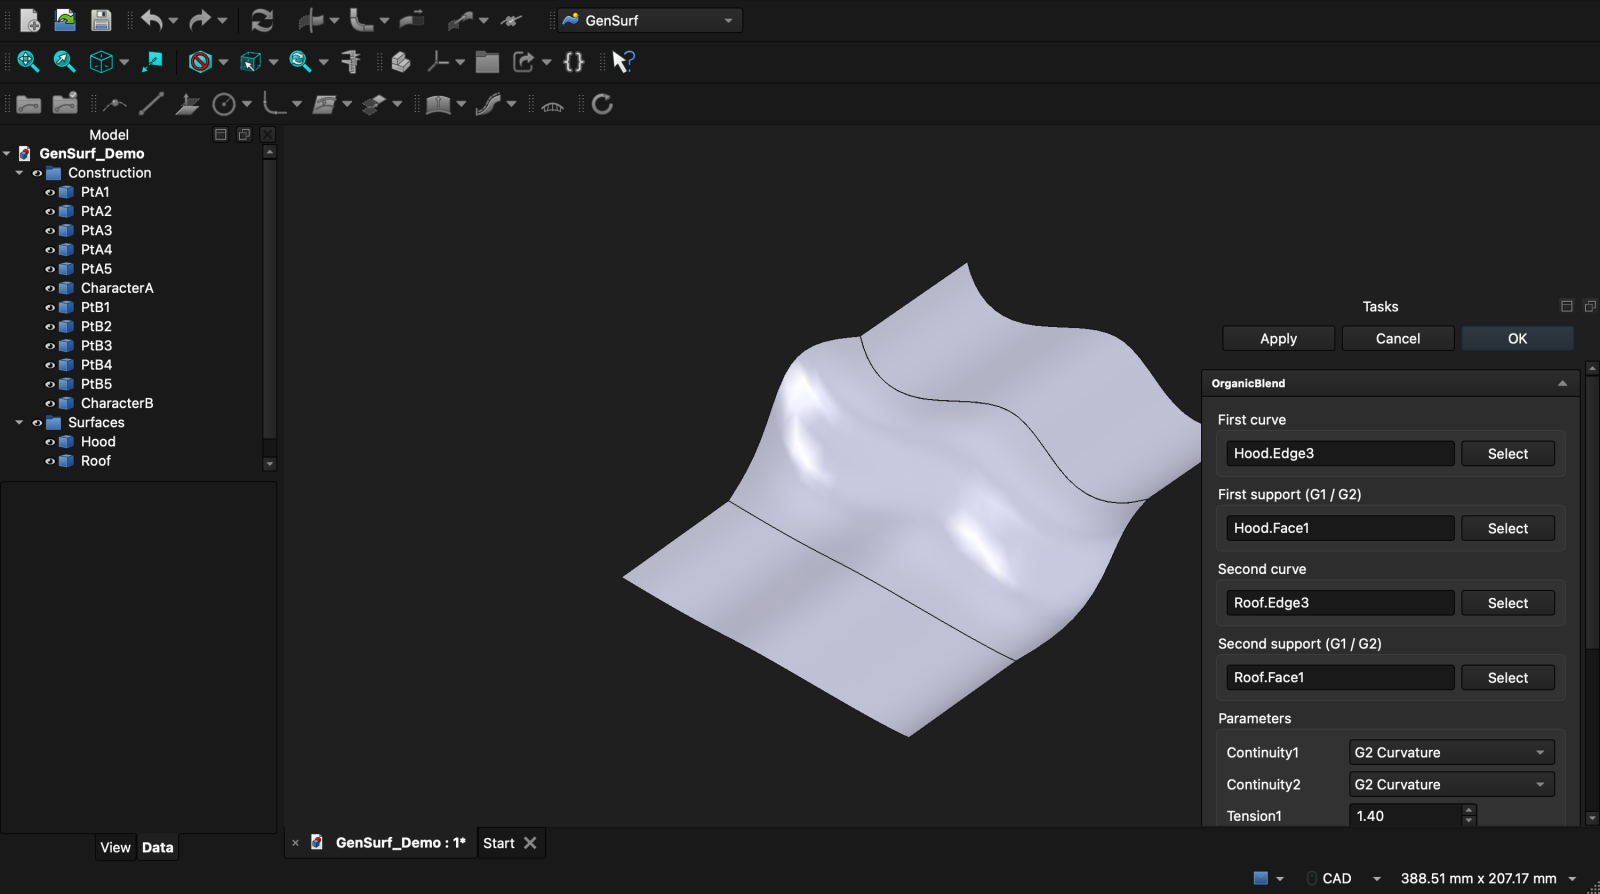
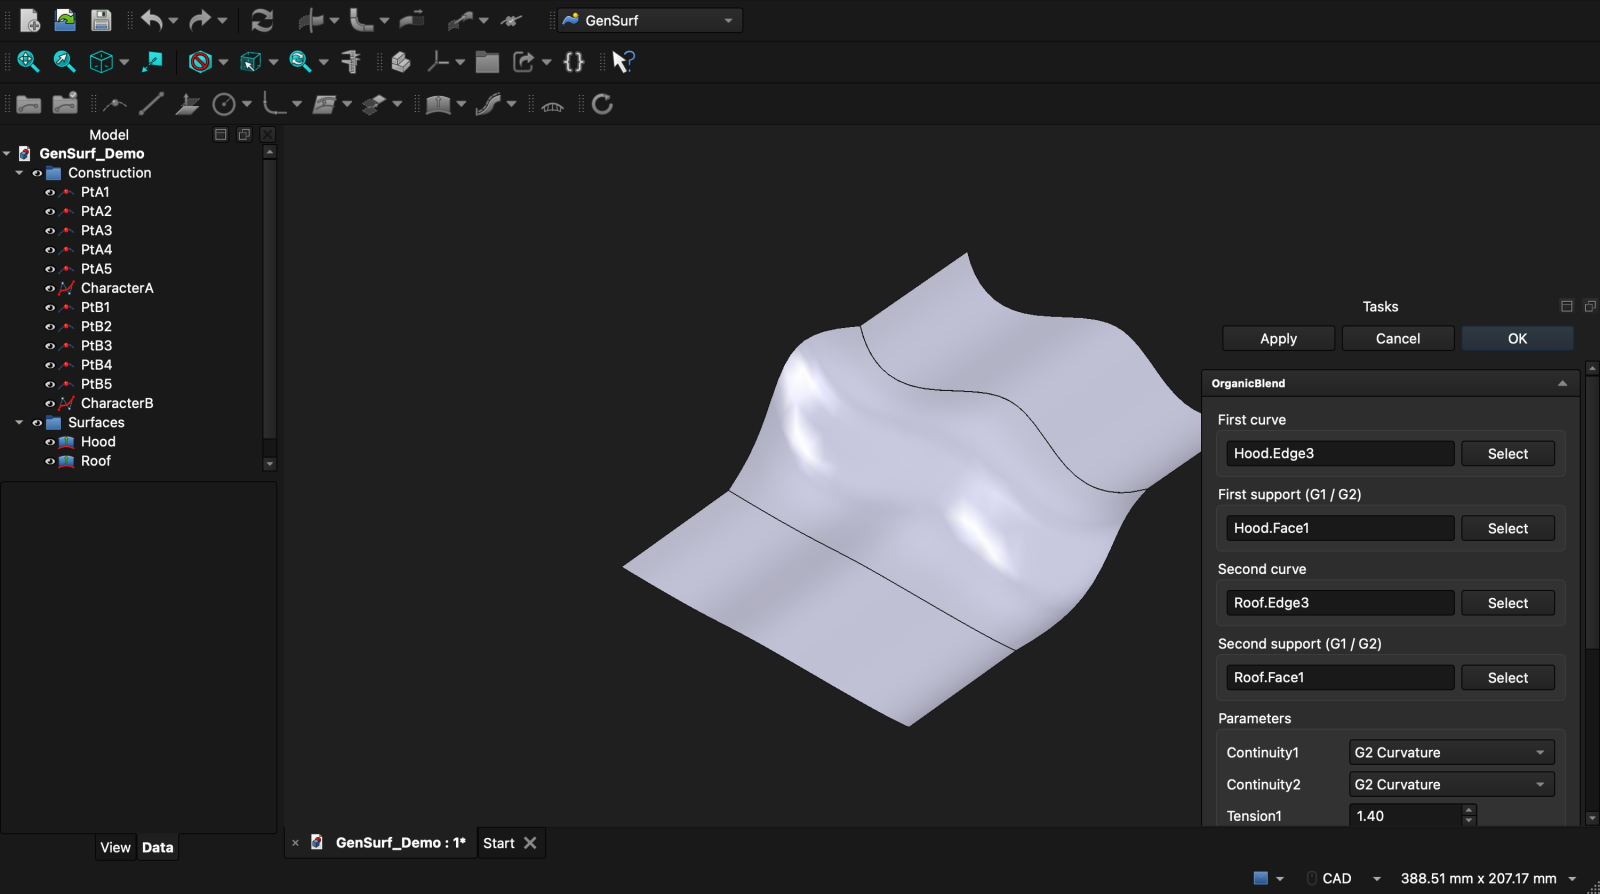
fix: GUI issues found by a new GUI smoke test
- tools/gui_smoke.py runs inside FreeCAD: every toolbar command creates
  its object, opens its task panel, applies and cancels (the object is
  removed); every operator's panel opens in edit mode on the 0.28 legacy
  document; toolbars, Set Active and tree icons are checked. 58/58 pass.
- Files saved without GUI data restored their GenSurf features without
  view providers (generic icons, double-click did not open the panel):
  the repair now runs whenever a document becomes active, since FreeCAD
  1.1 never calls slotFinishRestoreDocument on Python observers, and it
  also recognises the empty proxy (0). GSViewProvider keeps its view
  object from __init__, as attach() is not called in that case.
- Line requires Point1, so a new Line waits quietly for its input.
- README screenshots retaken: the tree now shows GenSurf's icons.

diff --git a/tools/gui_smoke.py b/tools/gui_smoke.py
@@ -1,0 +1,209 @@
+"""GUI smoke test (run as a macro inside the FreeCAD GUI).
+
+    GENSURF_SMOKE_LOG=/tmp/gensurf-smoke.txt \\
+        /path/to/FreeCAD --user-cfg /tmp/gensurf-smoke.cfg \\
+        tools/gui_smoke.py
+
+Exercises what the headless tests cannot reach: every toolbar command
+(create, open its task panel, Apply, Cancel), the task panel of every
+operator in edit mode on the 0.28 legacy document, Set Active, and the
+toolbar layout. Writes one line per check ("PASS ..." / "FAIL ...") to
+$GENSURF_SMOKE_LOG, then quits without saving anything. Python errors
+raised inside FreeCAD callbacks are only printed to the console, so also
+check the console output for "Traceback".
+"""
+
+import os
+import shutil
+import tempfile
+import traceback
+
+import FreeCAD as App
+import FreeCADGui as Gui
+from PySide import QtCore, QtWidgets
+
+REPO = os.path.dirname(os.path.dirname(os.path.abspath(__file__)))
+LOG = os.environ.get("GENSURF_SMOKE_LOG",
+                     os.path.join(tempfile.gettempdir(), "gensurf-smoke.txt"))
+RESULTS = []
+
+
+class _ControlSpy:
+    """Forwards to FreeCADGui.Control and remembers the last panel shown
+    (FreeCAD only hands back its own wrapper, not the Python panel)."""
+
+    def __init__(self, real):
+        self._real = real
+        self.last = None
+
+    def showDialog(self, panel):
+        self.last = panel
+        return self._real.showDialog(panel)
+
+    def __getattr__(self, name):
+        return getattr(self._real, name)
+
+
+class _GuiSpy:
+    def __init__(self, real):
+        self._real = real
+        self.Control = _ControlSpy(real.Control)
+
+    def __getattr__(self, name):
+        return getattr(self._real, name)
+
+
+SPY = _GuiSpy(Gui)
+
+
+def _close_leftover_dialog():
+    if not Gui.Control.activeDialog():
+        return
+    panel = SPY.Control.last
+    try:
+        panel.reject()
+    except Exception:  # noqa: BLE001
+        Gui.Control.closeDialog()
+        if App.ActiveDocument:
+            App.ActiveDocument.abortTransaction()
+
+
+def check(name, fn):
+    SPY.Control.last = None
+    try:
+        detail = fn()
+        RESULTS.append(f"PASS {name}" + (f" — {detail}" if detail else ""))
+    except Exception as err:  # noqa: BLE001 — report everything
+        tb = traceback.format_exc().strip().splitlines()[-3:]
+        RESULTS.append(f"FAIL {name}: {err!r} | " + " / ".join(tb))
+        _close_leftover_dialog()
+    QtWidgets.QApplication.processEvents()
+
+
+def _active_panel():
+    panel = SPY.Control.last
+    if panel is None or not Gui.Control.activeDialog():
+        raise RuntimeError("no task panel was shown")
+    return panel
+
+
+def _apply_and_cancel(panel):
+    from gensurf.ui.qt_compat import enum_value, standard_buttons
+    if not standard_buttons() & enum_value(
+            QtWidgets.QDialogButtonBox.Apply):
+        raise RuntimeError("Apply button missing")
+    panel.getStandardButtons()
+    panel.clicked(enum_value(QtWidgets.QDialogButtonBox.Apply))
+    panel.reject()
+    QtWidgets.QApplication.processEvents()
+    if Gui.Control.activeDialog():
+        raise RuntimeError("dialog still open after Cancel")
+
+
+def toolbars():
+    from gensurf.ui import commands
+    mw = Gui.getMainWindow()
+    titles = {tb.windowTitle() for tb in mw.findChildren(QtWidgets.QToolBar)
+              if tb.isVisible()}
+    wanted = [title for title, _items in commands.TOOLBARS]
+    missing = [t for t in wanted if t not in titles]
+    if missing:
+        raise RuntimeError(f"toolbars missing: {missing}")
+    return ", ".join(wanted)
+
+
+def create_with_command(name):
+    from gensurf.ui import commands
+    doc = App.ActiveDocument
+    before = len(doc.Objects)
+    commands._COMMANDS[name].Activated()
+    QtWidgets.QApplication.processEvents()
+    created = len(doc.Objects) - before
+    if created < 1:
+        raise RuntimeError("no object created")
+    _apply_and_cancel(_active_panel())
+    if len(doc.Objects) != before:
+        raise RuntimeError(
+            f"Cancel left {len(doc.Objects) - before} object(s) behind")
+
+
+def edit_existing(obj):
+    from gensurf.ui.view_provider import open_feature_dialog
+    open_feature_dialog(obj, created=False)
+    QtWidgets.QApplication.processEvents()
+    panel = _active_panel()
+    _apply_and_cancel(panel)
+    return type(panel).__name__
+
+
+def construction_sets():
+    from gensurf.containers import get_active_set, make_construction_set
+    from gensurf.ui import commands
+    doc = App.ActiveDocument
+    commands._COMMANDS["GenSurf_ConstructionSet"].Activated()
+    first = get_active_set(doc)
+    second = make_construction_set(doc, "SmokeSet")
+    Gui.Selection.clearSelection()
+    Gui.Selection.addSelection(first)
+    cmd = commands._COMMANDS["GenSurf_SetActive"]
+    if not cmd.IsActive():
+        raise RuntimeError("Set Active is disabled with a set selected")
+    cmd.Activated()
+    if get_active_set(doc) is not first or second.ActiveSet:
+        raise RuntimeError("Set Active did not switch the active set")
+    Gui.Selection.clearSelection()
+    return "insert + Set Active"
+
+
+def tree_icons(doc):
+    missing = [o.Name for o in doc.Objects
+               if getattr(o, "GSType", "") and o.TypeId ==
+               "Part::FeaturePython" and not o.ViewObject.Proxy.getIcon()]
+    if missing:
+        raise RuntimeError(f"no tree icon for {missing}")
+    return f"{len(doc.Objects)} objects"
+
+
+def run():
+    from gensurf.ui import commands, view_provider
+    Gui.activateWorkbench("GenerativeSurfacesWorkbench")
+    view_provider.Gui = SPY  # panels are shown through this module
+    tmp = tempfile.mkdtemp(prefix="gensurf-smoke-")
+    try:
+        check("toolbars", toolbars)
+
+        App.newDocument("Smoke")
+        check("construction sets", construction_sets)
+        for name, _type_id, text, _tip in commands._FEATURES:
+            check(f"command {text}",
+                  lambda n=name: create_with_command(n))
+        App.closeDocument("Smoke")
+
+        path = os.path.join(tmp, "legacy.FCStd")
+        shutil.copyfile(os.path.join(REPO, "tests", "data",
+                                     "gensurf_v028_legacy.FCStd"), path)
+        legacy = App.openDocument(path)
+        QtWidgets.QApplication.processEvents()  # deferred repairs run here
+        legacy.recompute()
+        Gui.SendMsgToActiveView("ViewFit")
+        check("tree icons", lambda: tree_icons(legacy))
+        seen = set()
+        for obj in legacy.Objects:
+            gstype = getattr(obj, "GSType", "")
+            if obj.TypeId != "Part::FeaturePython" or gstype in seen:
+                continue
+            seen.add(gstype)
+            check(f"edit {gstype} ({obj.Name})",
+                  lambda o=obj: edit_existing(o))
+        App.closeDocument(legacy.Name)
+    except Exception:  # noqa: BLE001
+        RESULTS.append("FAIL harness: " + traceback.format_exc())
+    finally:
+        shutil.rmtree(tmp, ignore_errors=True)
+        with open(LOG, "w", encoding="utf-8") as f:
+            f.write("\n".join(RESULTS) + "\n")
+        App.Console.PrintMessage(f"[smoke] {len(RESULTS)} checks -> {LOG}\n")
+        QtCore.QTimer.singleShot(500, Gui.getMainWindow().close)
+
+
+QtCore.QTimer.singleShot(2500, run)

diff --git a/gensurf/ui/observers.py b/gensurf/ui/observers.py
@@ -13,6 +13,37 @@ import FreeCAD as App
 import FreeCADGui as Gui
 
 _observer = None
+_restore_observer = None
+
+
+class ViewProviderRepair:
+    """When a document becomes active (opening one activates it), give
+    its GenSurf features their view providers (tree icon, double-click
+    opens the task panel) even if the file was saved without GUI data.
+    FreeCAD 1.1 does not call slotFinishRestoreDocument on Python
+    observers, hence activation. Deferred one event-loop turn so loading
+    has finished; repeated activations are cheap no-ops."""
+
+    def slotActivateDocument(self, doc):
+        from PySide import QtCore
+        name = doc.Name
+        QtCore.QTimer.singleShot(0, lambda: self._repair(name))
+
+    @staticmethod
+    def _repair(name):
+        if name not in App.listDocuments():
+            return
+        from gensurf.ui.view_provider import ensure_view_providers
+        ensure_view_providers(App.getDocument(name))
+
+
+def install_restore_repair():
+    """Installed when FreeCAD loads the workbench list, so documents
+    opened before GenSurf is first activated are repaired too."""
+    global _restore_observer
+    if _restore_observer is None:
+        _restore_observer = ViewProviderRepair()
+        App.addDocumentObserver(_restore_observer)
 
 
 class SketchCapture:

diff --git a/gensurf/ui/view_provider.py b/gensurf/ui/view_provider.py
@@ -26,6 +26,9 @@ _ICON_BY_TYPE = {}
 
 class GSViewProvider:
     def __init__(self, vobj):
+        # attach() is not called when the proxy is set on an existing view
+        # object (repair of files saved without GUI data): keep it here too
+        self.vobj = vobj
         vobj.Proxy = self
 
     def attach(self, vobj):
@@ -90,8 +93,9 @@ def open_feature_dialog(obj, created=False):
 
 
 def ensure_view_providers(doc):
-    """Attach GSViewProvider to GS features that lack one (e.g. objects
-    created before the view-provider layer existed)."""
+    """Attach GSViewProvider to GenSurf features that lack one: documents
+    saved without GUI data (scripts, tests) or before the view-provider
+    layer existed restore with an empty proxy (None or 0)."""
     if not App.GuiUp or doc is None:
         return
     from gensurf.features import FEATURES
@@ -99,5 +103,6 @@ def ensure_view_providers(doc):
         gstype = getattr(obj, "GSType", "")
         if gstype in FEATURES:
             vo = getattr(obj, "ViewObject", None)
-            if vo is not None and getattr(vo, "Proxy", None) is None:
+            if vo is not None and not hasattr(
+                    getattr(vo, "Proxy", None), "getIcon"):
                 GSViewProvider(vo)

diff --git a/InitGui.py b/InitGui.py
@@ -30,13 +30,20 @@ class GenerativeSurfacesWorkbench(FreeCADGui.Workbench):
             self.appendMenu(["&GenSurf", title], items)
 
     def Activated(self):
-        # Upgrade objects created before the view-provider layer existed.
+        # Give GenSurf features in already open documents their view
+        # providers (files saved without GUI data restore without them).
         import FreeCAD as App
         from gensurf.ui.view_provider import ensure_view_providers
-        ensure_view_providers(App.ActiveDocument)
+        for name in App.listDocuments():
+            ensure_view_providers(App.getDocument(name))
 
     def GetClassName(self):
         return "Gui::PythonWorkbench"
 
 
 FreeCADGui.addWorkbench(GenerativeSurfacesWorkbench())
+
+# documents opened later, whichever workbench is active, get GenSurf's
+# view providers for their GenSurf features (lightweight observer)
+from gensurf.ui import observers as _observers  # noqa: E402
+_observers.install_restore_repair()

diff --git a/gensurf/features/line.py b/gensurf/features/line.py
@@ -39,7 +39,7 @@ def _vertex_point(link, what):
 
 class Line(GSFeature):
     TYPE_ID = "GenSurf::Line"
-    REQUIRED_LINKS = ()
+    REQUIRED_LINKS = ("Point1",)  # every line type starts there
     INPUT_SLOTS = (
         ("Point1", "Start point", ("Vertex",), True),
         ("Point2", "End point (Point-Point)", ("Vertex",), True),

diff --git a/CHANGELOG.md b/CHANGELOG.md
@@ -54,6 +54,9 @@ option values and expressions), and the objects recompute identically.
 - Icon set in FreeCAD's native style, generated by `tools/gen_icons.py`.
 - README screenshots of the demo model, the Blend panel and curvature
   combs; `tools/capture_screenshots.py` retakes them.
+- `tools/gui_smoke.py`: a GUI smoke test run inside FreeCAD — every
+  command creates its object, opens its panel, applies and cancels; every
+  operator's panel opens in edit mode on the 0.28 legacy document.
 - `docs/glossary.md`: the terms GenSurf uses.
 - `docs/third_party.md`: licences of outside code, with an audit of the
   Curves workbench and the rules for reusing or studying other code.
@@ -72,6 +75,11 @@ option values and expressions), and the objects recompute identically.
   mode matches the support's curvature across the edge (0.18 %).
 
 ### Fixed
+- Documents saved without GUI data (scripts, tests, older files) showed
+  generic tree icons, and double-clicking a GenSurf feature did not open
+  its task panel: GenSurf's view providers are now attached whenever a
+  document becomes active.
+- A new Line no longer prints an error before its first point is picked.
 - Task panels did not open on FreeCAD 1.1: PySide6 Qt enums no longer
   convert with `int()`, so the OK / Apply / Cancel buttons failed for
   every operator. A regression test now checks the conversion.
